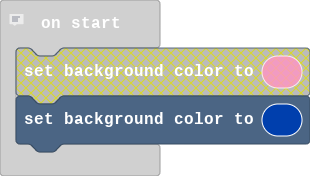
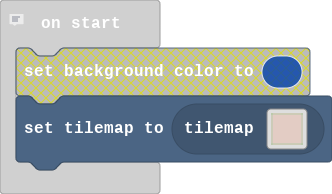
Update main.blocks, main.ts, tilemap.g.jres, tilemap.g.ts

diff --git a/tilemap.g.ts b/tilemap.g.ts
@@ -24,6 +24,25 @@ namespace myTiles {
 . . . . . . . . . . . . . . . . 
 . . . . . . . . . . . . . . . . 
 `, [myTiles.transparency16,sprites.dungeon.collectibleInsignia,sprites.castle.tilePath1,sprites.castle.tilePath8,sprites.castle.tilePath7], TileScale.Sixteen);
+            case "level2":
+            case "level2":return tiles.createTilemap(hex`1000100001080808080808080808080808080806020909090909090909090909090909070209090909090909090909090909090702090909090909090909090909090907020909090909090909090909090909070209090909090909090909090909090702090909090909090909090909090907020909090909090909090909090909070209090909090909090909090909090702090909090909090909090909090907020909090909090909090909090909070209090909090909090909090909090702090909090909090909090909090907020909090909090909090909090909070209090909090909090909090909090703040404040404040404040404040405`, img`
+. . . . . . . . . . . . . . . . 
+. . . . . . . . . . . . . . . . 
+. . . . . . . . . . . . . . . . 
+. . . . . . . . . . . . . . . . 
+. . . . . . . . . . . . . . . . 
+. . . . . . . . . . . . . . . . 
+. . . . . . . . . . . . . . . . 
+. . . . . . . . . . . . . . . . 
+. . . . . . . . . . . . . . . . 
+. . . . . . . . . . . . . . . . 
+. . . . . . . . . . . . . . . . 
+. . . . . . . . . . . . . . . . 
+. . . . . . . . . . . . . . . . 
+. . . . . . . . . . . . . . . . 
+. . . . . . . . . . . . . . . . 
+. . . . . . . . . . . . . . . . 
+`, [myTiles.transparency16,sprites.castle.tilePath1,sprites.castle.tilePath4,sprites.castle.tilePath7,sprites.castle.tilePath8,sprites.castle.tilePath9,sprites.castle.tilePath3,sprites.castle.tilePath6,sprites.castle.tilePath2,sprites.castle.tilePath5], TileScale.Sixteen);
         }
         return null;
     })

diff --git a/main.ts b/main.ts
@@ -1,2 +1,2 @@
 // Don't forget to comment your code as you work!
-scene.setBackgroundColor(8)
+tiles.setCurrentTilemap(tilemap`level2`)
